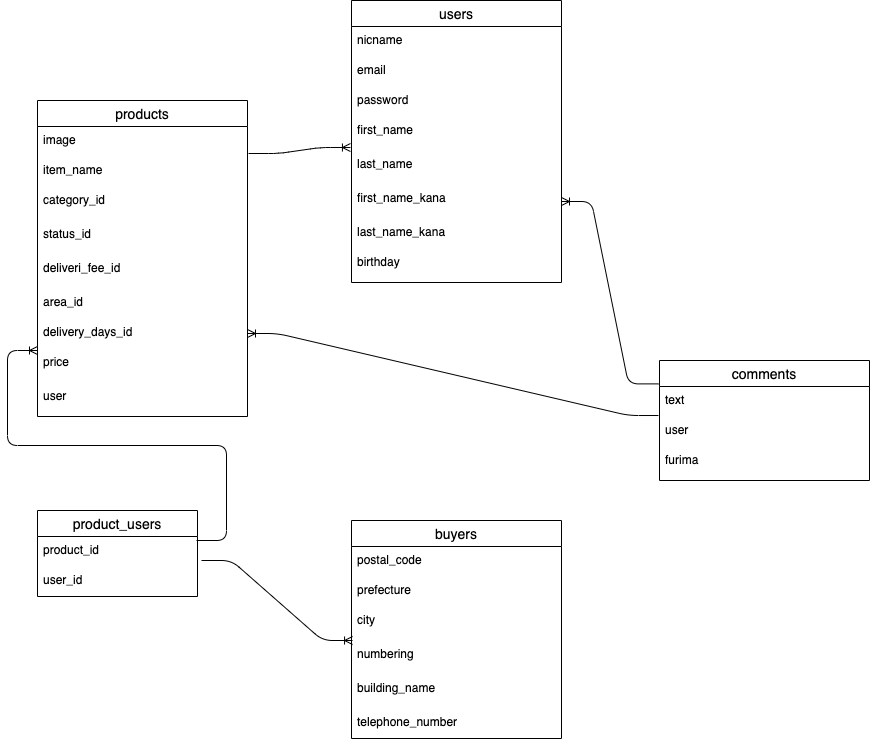
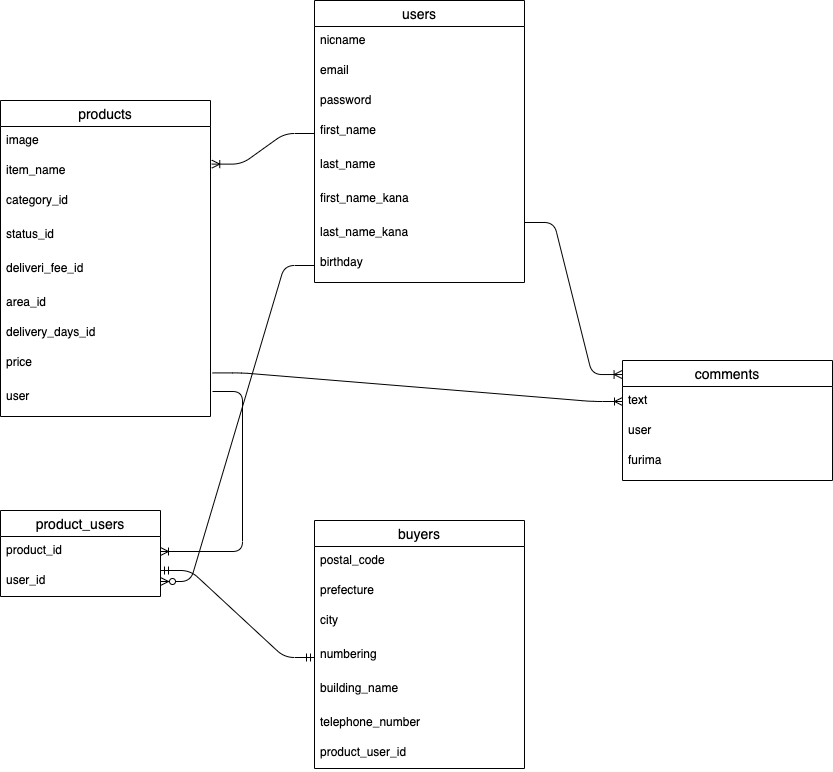
データベース設計訂正5

diff --git a/README.md b/README.md
@@ -19,7 +19,7 @@
 
 - has_many :products
 - has_many :comments
-- has_many :product_user
+- has_many :product_users
 
 
 ## products テーブル
@@ -30,7 +30,7 @@
 | category_id      | integer    | null: false                     |
 | status_id        | integer    | null: false                     |
 | delivery_fee_id  | integer    | null: false                     |
-| area_id          | integer    | null: false                     | 
+| prefecture_id    | integer    | null: false                     | #発送下の地域
 | delivery_days_id | integer    | null: false                     |
 | price            | integer    | null: false                     |
 | description      | text       | null: false                     |
@@ -41,6 +41,7 @@
 - has_many :comments
 - has_many :users
 - has_many :comments
+
 
 
 
@@ -62,16 +63,16 @@
 | Column           | Type       | Options                         |
 | ---------------- | ---------- | ------------------------------- |
 | postal_code      | string     | null: false                     | 
-| prefecture       | string     | null: false                     |
+| prefecture_id    | integer    | null: false                     | #発送先の地域
 | city             | string     | null: false                     |
 | numbering        | string     | null: false                     |
 | building_name    | string     |                                 | 
 | telephone_number | string     | null: false                     |
-
+| product_users    |references  | null: false, foreign_key: true  |
 
 ### Association
 
-- has_many :product_users
+- belongs_to :product_users
 
 
 ## product_users テーブル
